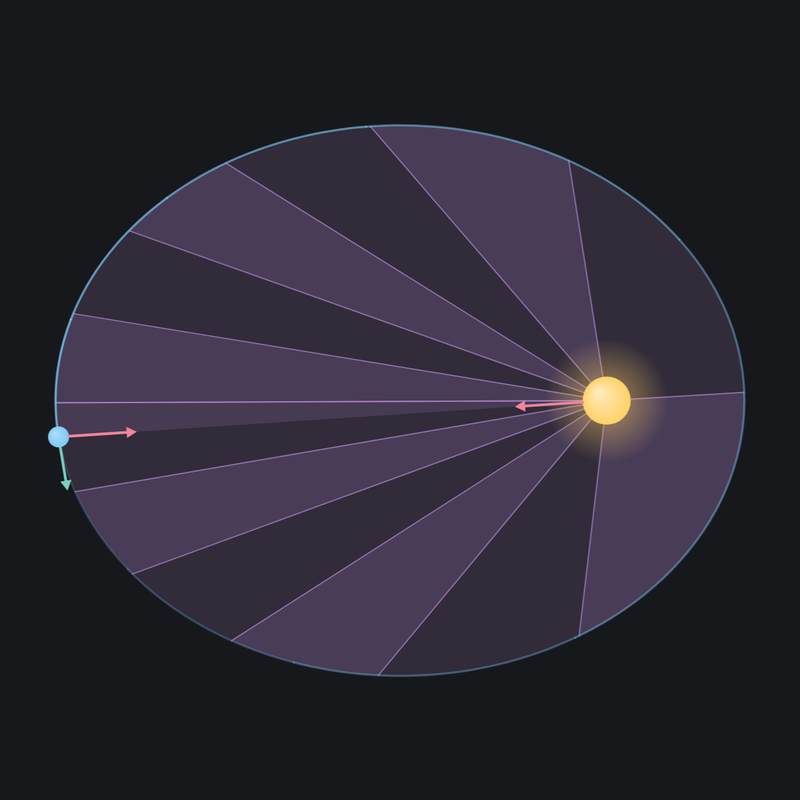
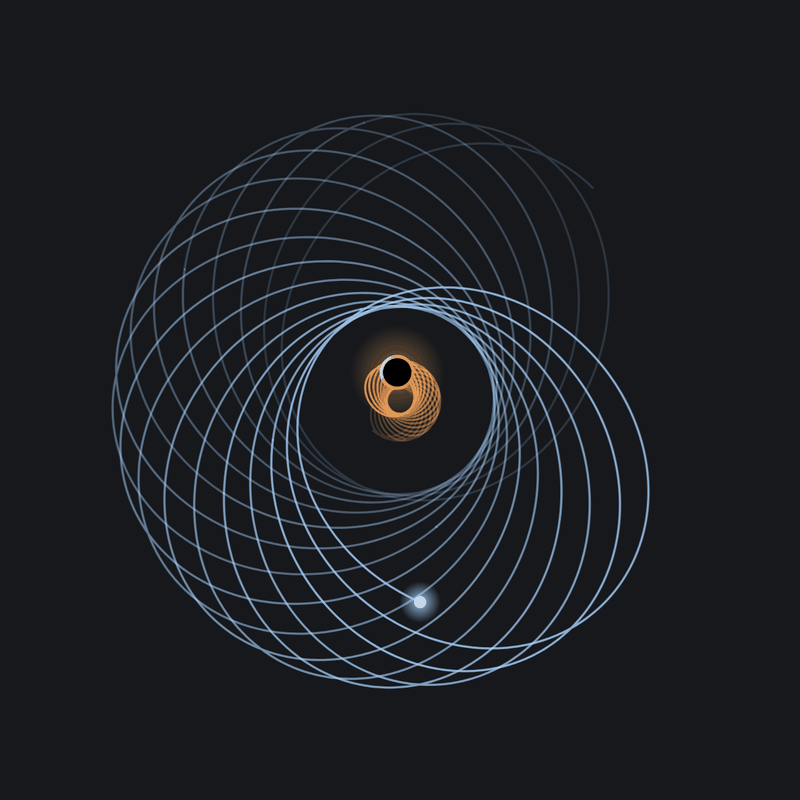
Show a relativistic rosette on the orbits tile
The tile is now the neutron star's orbit round the black hole with
realistic physics on: twenty orbits, each turned a little further by
general relativity, round the black hole's own small wobble. It shows
off what the page can now do, and every loop is still one of Kepler's
ellipses. 800 x 800, 111 KB as a 256-colour PNG. The page's own
descriptions and structured data now mention black holes, gravity
assists, the three-body problem and relativity.

diff --git a/orbits_simulation.html b/orbits_simulation.html
@@ -9,8 +9,8 @@
 		<title>Orbits &amp; Gravity Simulation | Newton's Law &amp; Kepler's Laws | Simulations.Science</title>
 		<meta charset="utf-8" />
 		<meta name="viewport" content="width=device-width, initial-scale=1, user-scalable=no" />
-		<meta name="description" content="Interactive orbit simulation: drag stars, planets and moons, set their velocities and see Newton's law of gravitation and all three of Kepler's laws at work." />
-		<meta name="keywords" content="orbits, gravity, Newton's law of universal gravitation, Kepler's laws, planetary motion, elliptical orbits, equal areas in equal times, orbital period, escape velocity, centre of mass, n-body simulation, physics simulation, interactive physics" />
+		<meta name="description" content="Interactive orbit simulation: drag stars, planets, moons and black holes, set their velocities and see Newton's law of gravitation and all three of Kepler's laws at work, then turn on general relativity." />
+		<meta name="keywords" content="orbits, gravity, Newton's law of universal gravitation, Kepler's laws, planetary motion, elliptical orbits, equal areas in equal times, orbital period, escape velocity, gravity assist, three-body problem, black hole, neutron star, general relativity, centre of mass, n-body simulation, physics simulation, interactive physics" />
 		<meta name="author" content="Simulations.Science" />
 		<meta name="robots" content="index, follow" />
 
@@ -18,14 +18,14 @@
 		<meta property="og:type" content="website" />
 		<meta property="og:url" content="https://simulations.science/orbits_simulation.html" />
 		<meta property="og:title" content="Orbits &amp; Gravity Simulation | Simulations.Science" />
-		<meta property="og:description" content="Drag stars and planets, set their velocities and watch Newton's gravity and Kepler's laws at work." />
+		<meta property="og:description" content="Drag stars, planets and black holes, set their velocities and watch Newton's gravity, Kepler's laws and Einstein's corrections at work." />
 		<meta property="og:image" content="https://simulations.science/images/orbits.png" />
 
 		<!-- Twitter -->
 		<meta name="twitter:card" content="summary_large_image" />
 		<meta name="twitter:url" content="https://simulations.science/orbits_simulation.html" />
 		<meta name="twitter:title" content="Orbits &amp; Gravity Simulation | Simulations.Science" />
-		<meta name="twitter:description" content="Drag stars and planets, set their velocities and watch Newton's gravity and Kepler's laws at work." />
+		<meta name="twitter:description" content="Drag stars, planets and black holes, set their velocities and watch Newton's gravity, Kepler's laws and Einstein's corrections at work." />
 		<meta name="twitter:image" content="https://simulations.science/images/orbits.png" />
 
 		<!-- Canonical URL -->
@@ -37,7 +37,7 @@
 			"@context": "https://schema.org",
 			"@type": "LearningResource",
 			"name": "Orbits & Gravity Simulation",
-			"description": "An interactive n-body gravity simulation in real units (AU, years, solar masses): drag stars, planets, moons and comets into place, set their velocities, view the motion from any body, and see Newton's law of universal gravitation and Kepler's three laws of planetary motion measured live.",
+			"description": "An interactive n-body gravity simulation in real units (AU, years, solar masses): drag stars, planets, moons, comets, neutron stars and black holes into place, set their velocities, view the motion from any body, and see Newton's law of universal gravitation and Kepler's three laws of planetary motion measured live, with gravity assists, the chaotic three-body problem and, optionally, general relativity and tidal disruption.",
 			"provider": {
 				"@type": "Organization",
 				"name": "Simulations.Science",
@@ -69,6 +69,11 @@
 					"@type": "Thing",
 					"name": "Frames of Reference",
 					"description": "How the same motion looks when viewed from the centre of mass or from one of the moving bodies"
+				},
+				{
+					"@type": "Thing",
+					"name": "General Relativity and Compact Objects",
+					"description": "Black holes, neutron stars and white dwarfs; the precession of orbits close to a compact mass; event horizons and tidal disruption"
 				}
 			],
 			"educationalLevel": "High School and Above",
